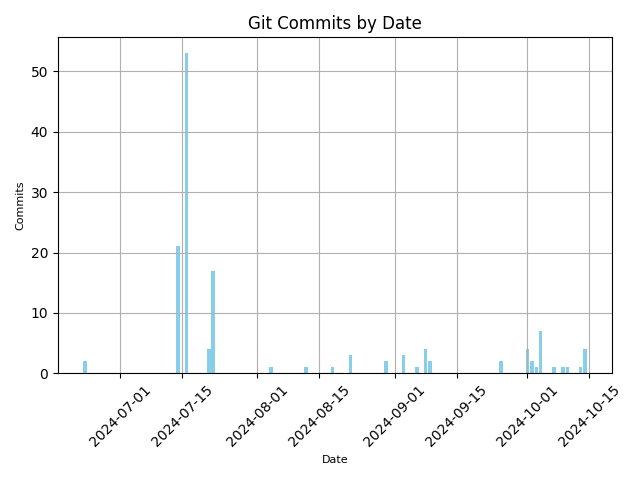
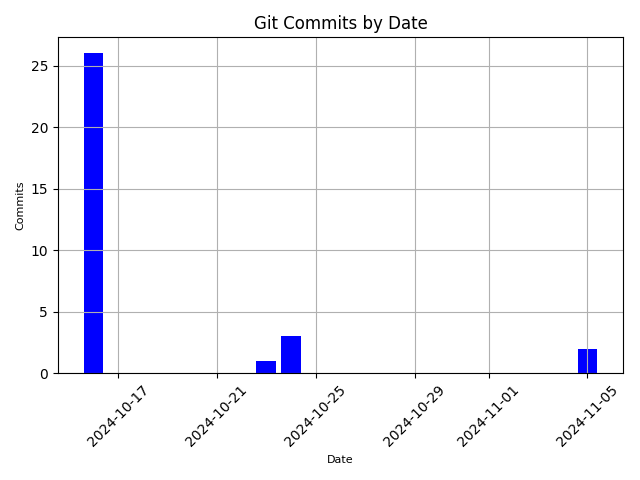
Update run.py

diff --git a/run.py b/run.py
@@ -10,9 +10,9 @@ def main(style):
     df.set_index("date", inplace=True)
 
     if style == "plot":
-        plt.plot(df.index, df["num"], color="skyblue")
+        plt.plot(df.index, df["num"], color="blue")
     elif style == "bar":
-        plt.bar(df.index, df["num"], color="skyblue")
+        plt.bar(df.index, df["num"], color="blue")
     else:
         raise Exception("Invalid style provided. Use 'plot' or 'bar'.")
 
